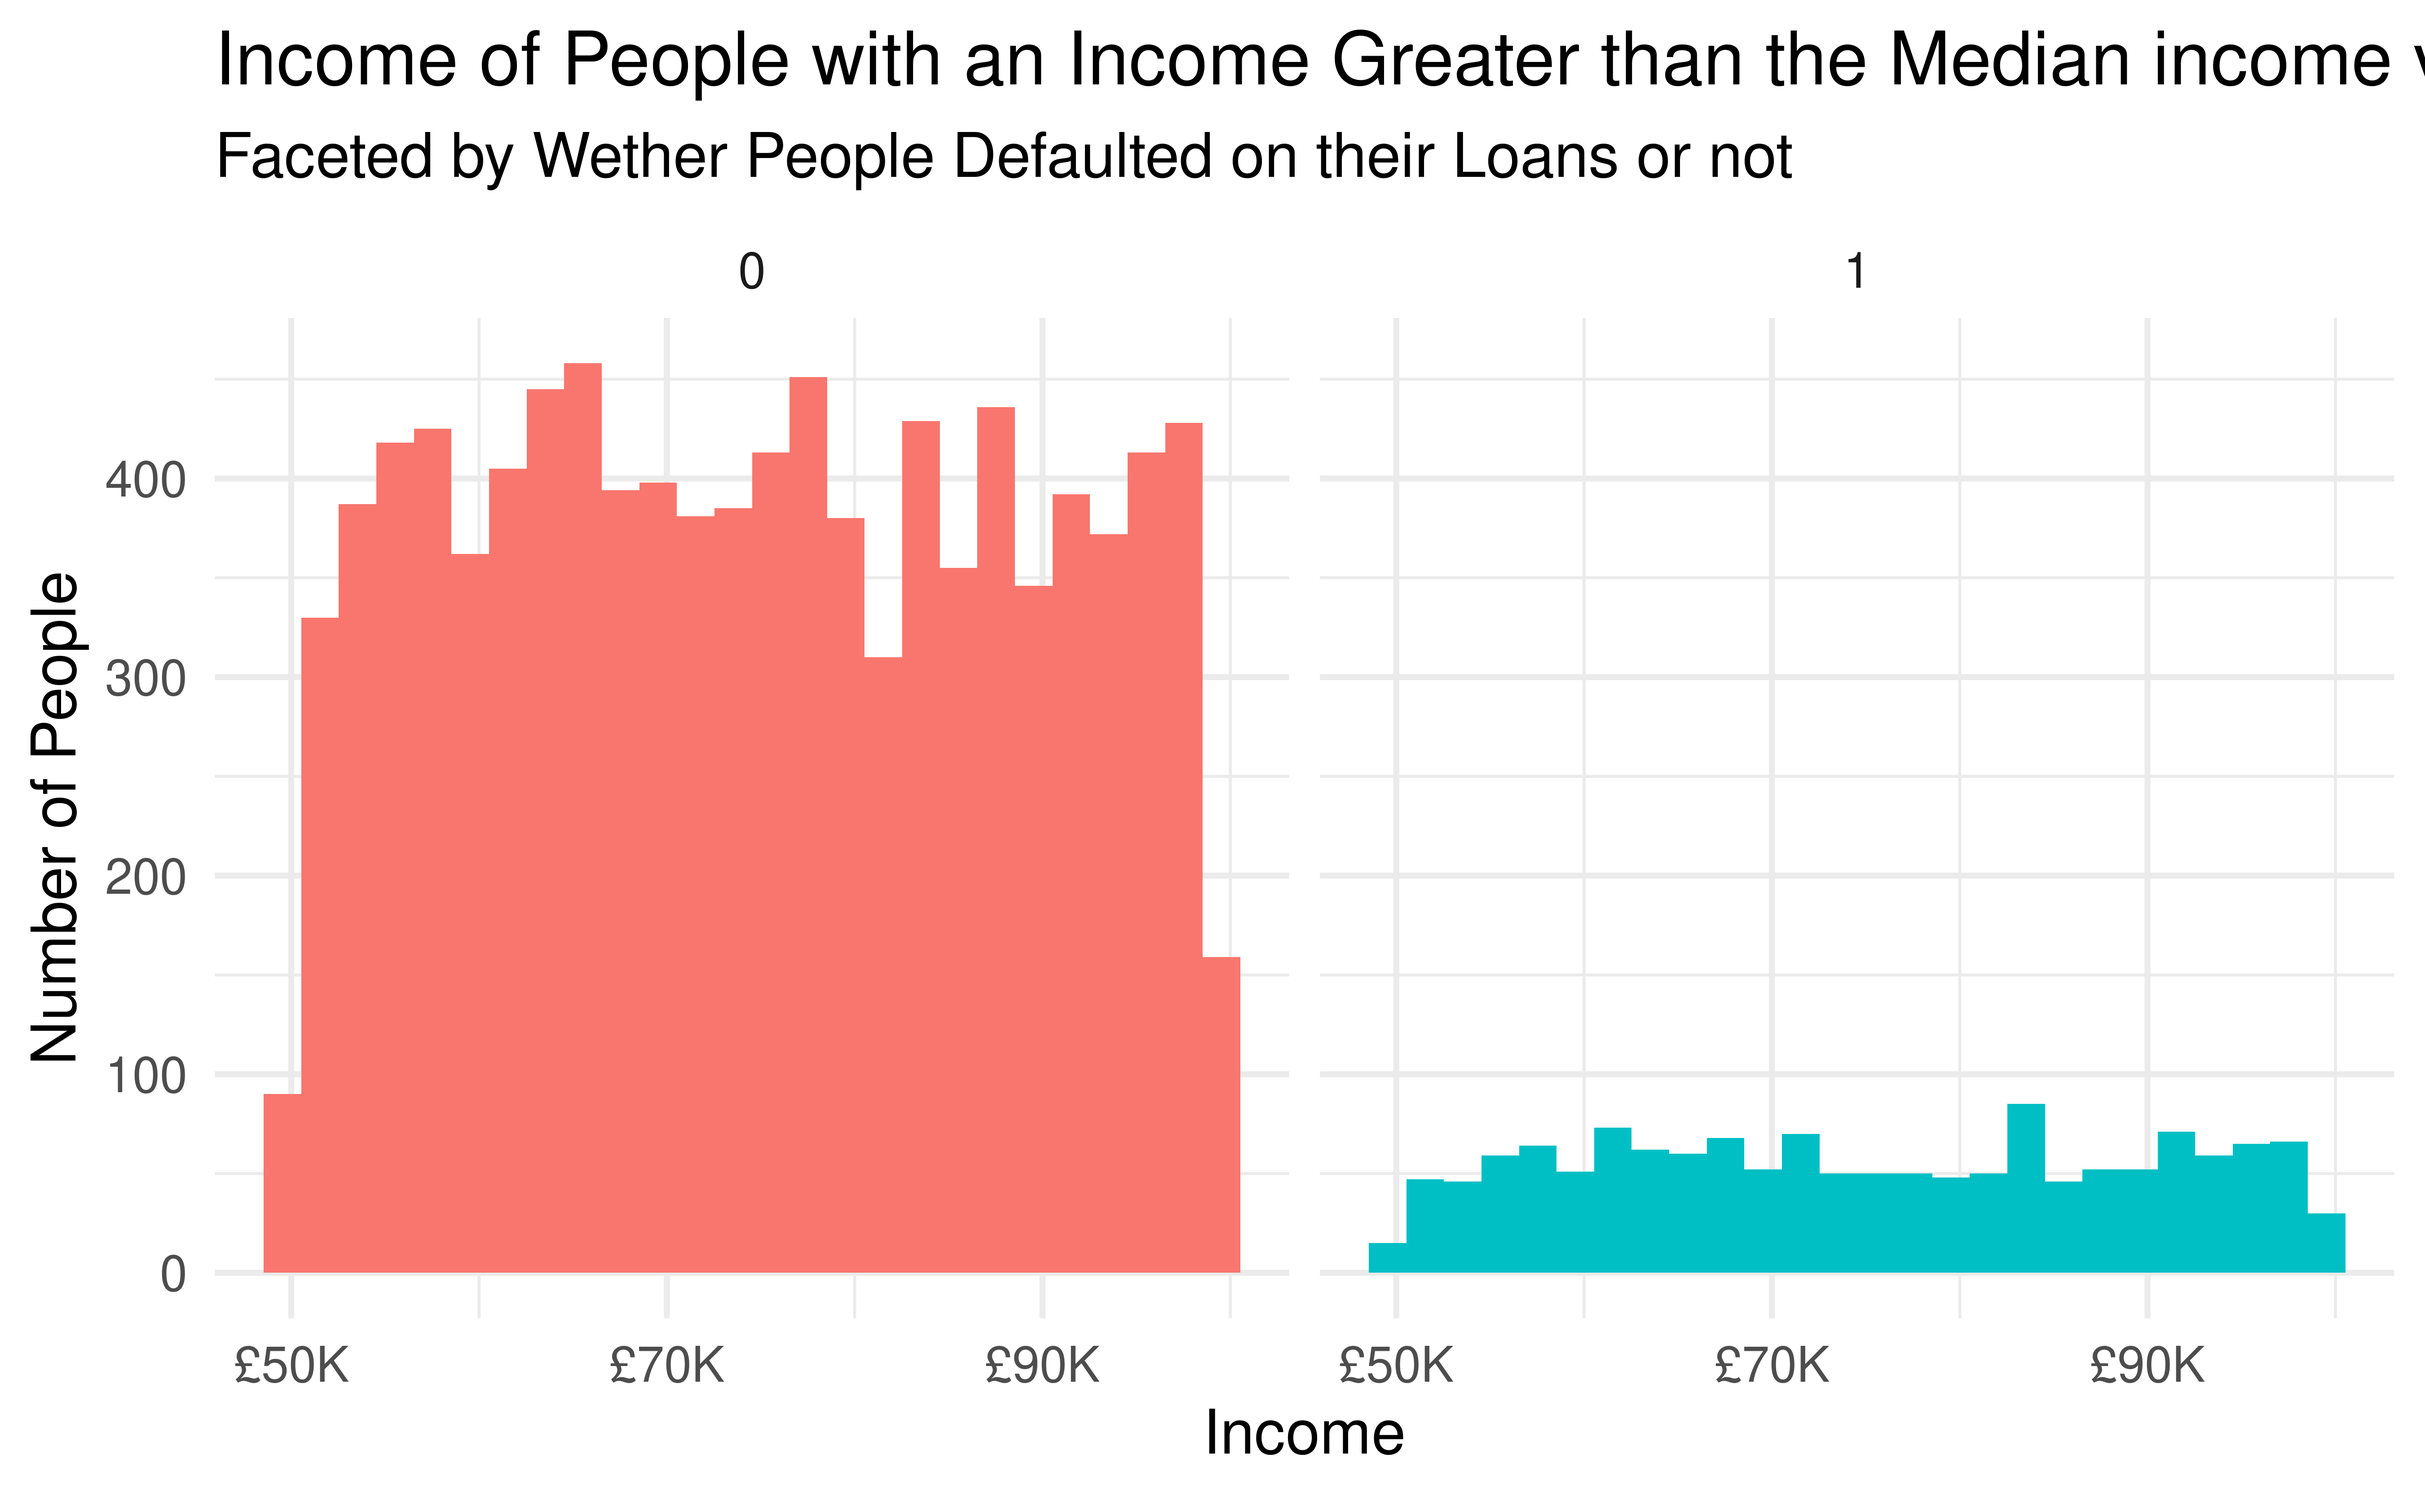
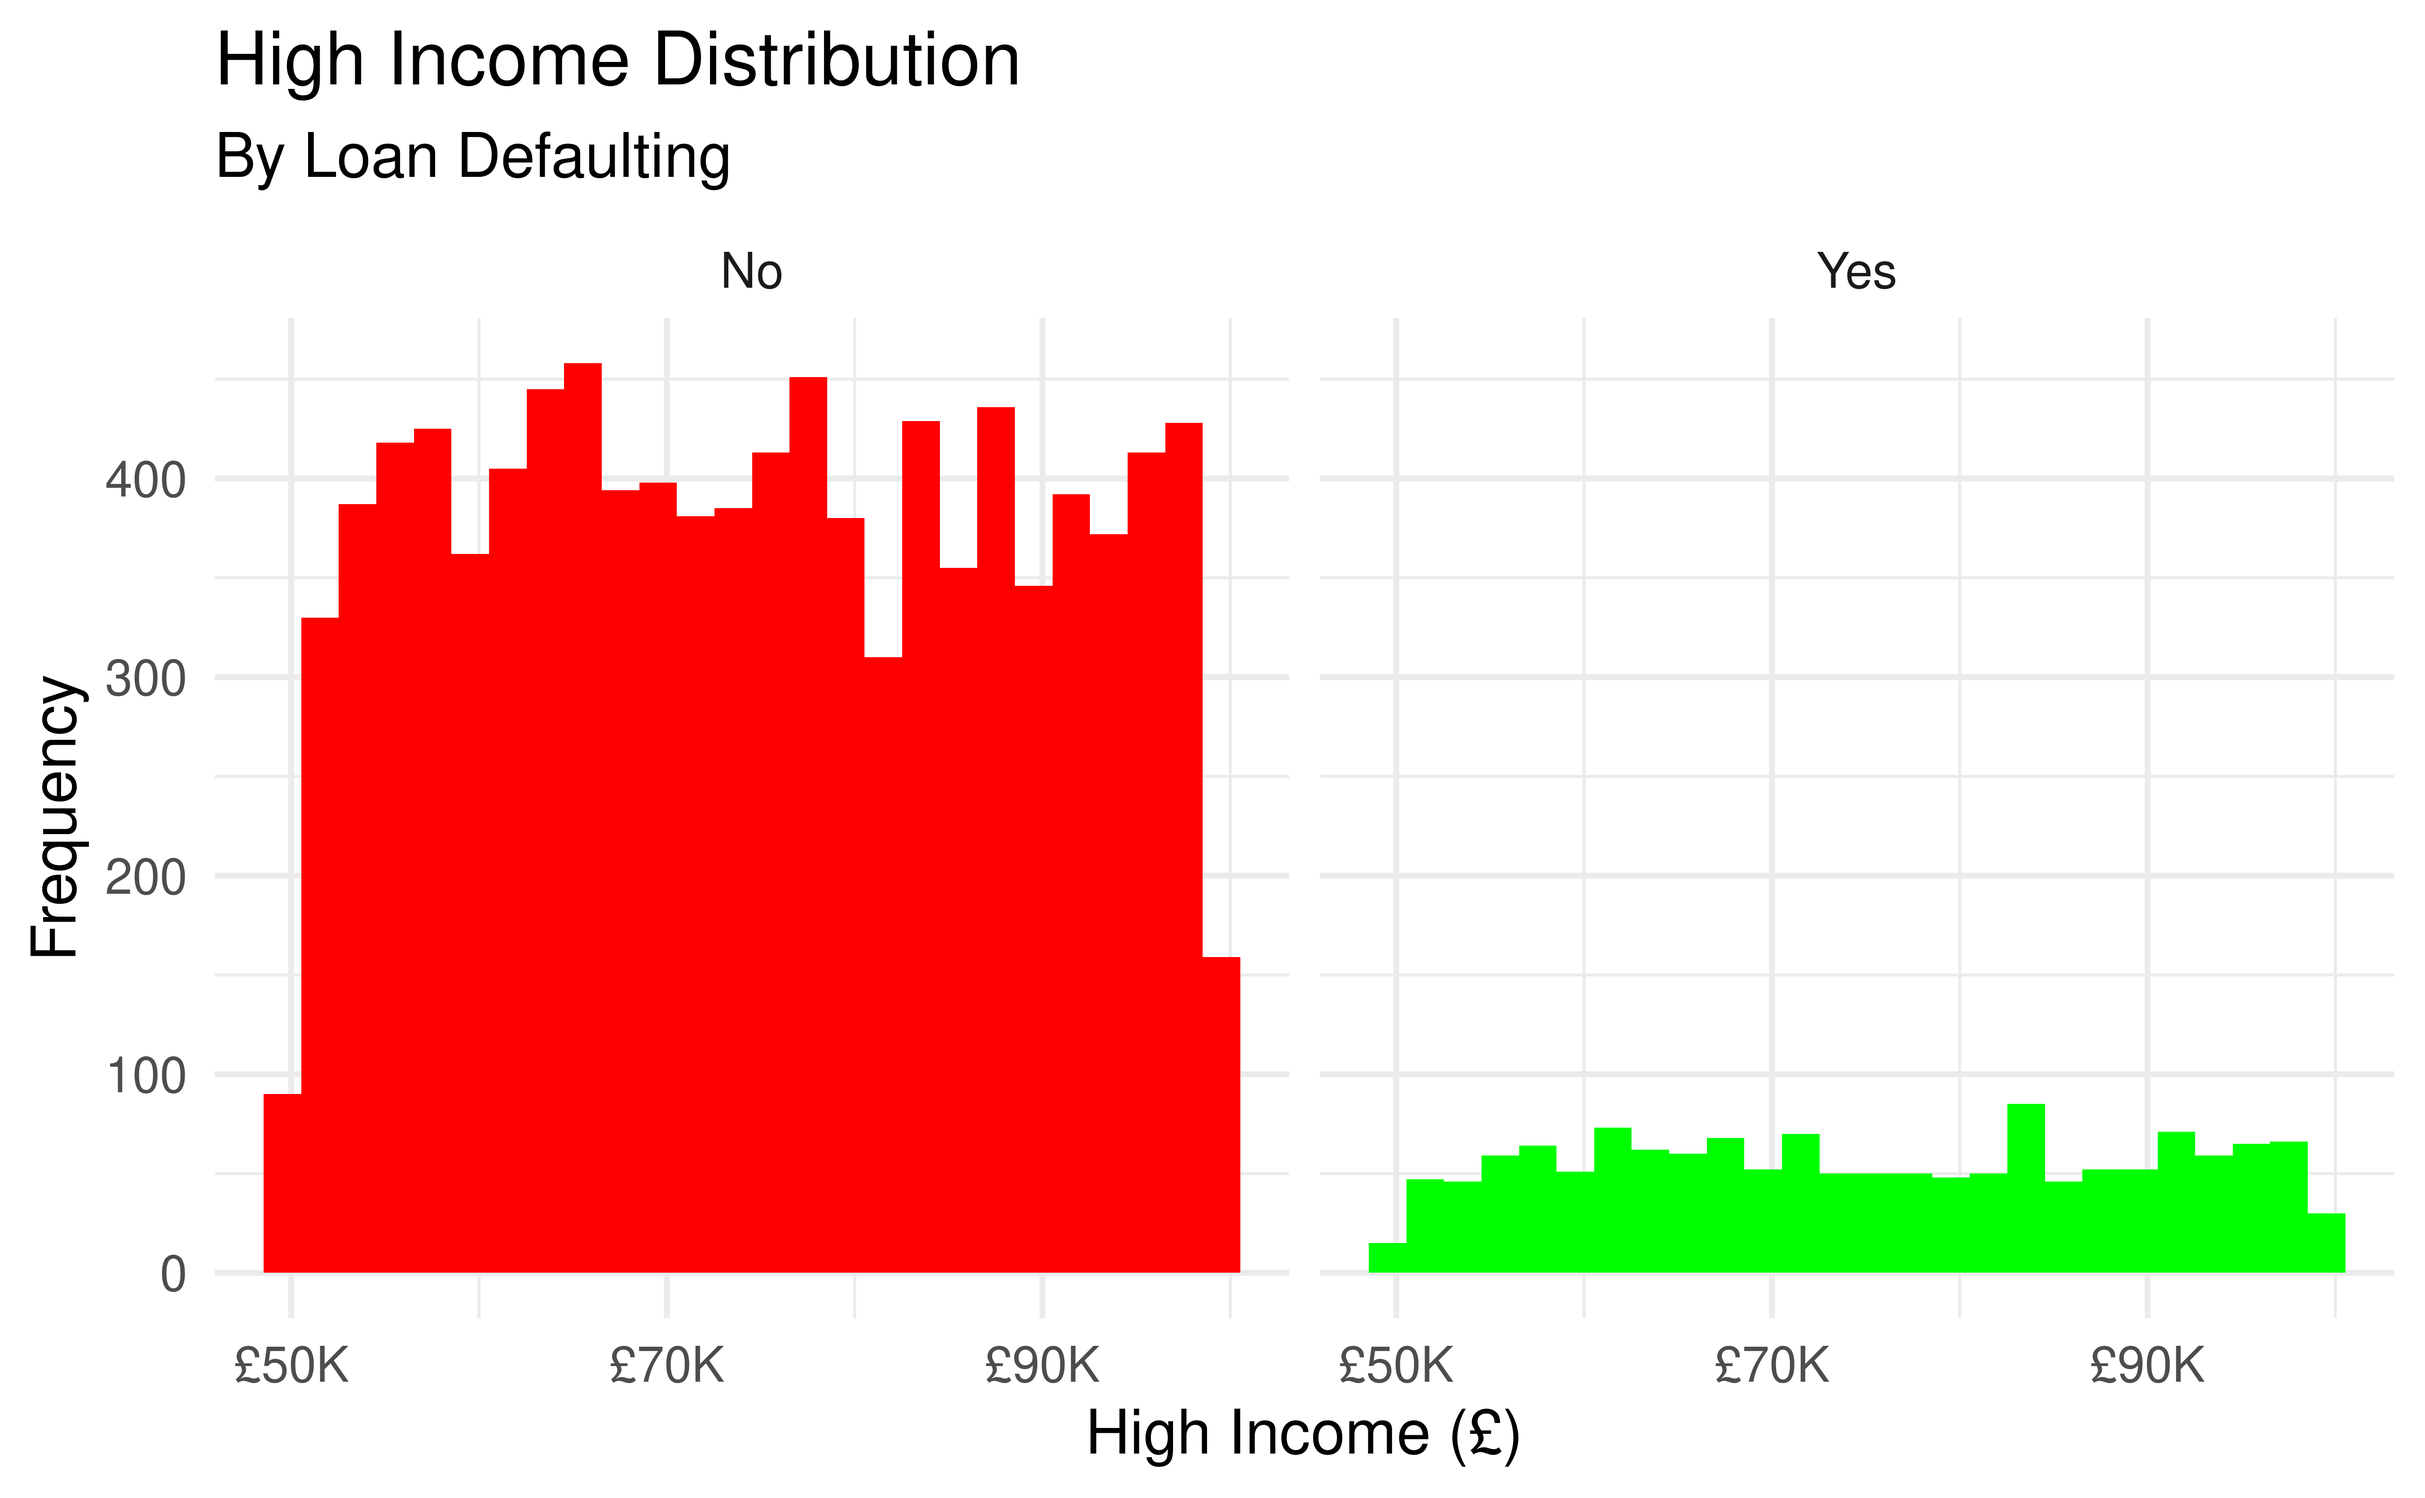
Graph Improvements

diff --git a/presentation/reveal.js_template/presentation.html b/presentation/reveal.js_template/presentation.html
@@ -184,7 +184,7 @@ Married.Single
 1
 </td>
 <td style="text-align:left;">
-0
+No
 </td>
 <td style="text-align:right;">
 7393090
@@ -204,7 +204,7 @@ single
 3
 </td>
 <td style="text-align:left;">
-1
+Yes
 </td>
 <td style="text-align:right;">
 8901342
@@ -224,7 +224,7 @@ single
 7
 </td>
 <td style="text-align:left;">
-0
+No
 </td>
 <td style="text-align:right;">
 5101498
@@ -244,7 +244,7 @@ married
 8
 </td>
 <td style="text-align:left;">
-0
+No
 </td>
 <td style="text-align:right;">
 6716946
@@ -264,7 +264,7 @@ single
 9
 </td>
 <td style="text-align:left;">
-0
+No
 </td>
 <td style="text-align:right;">
 8369802
@@ -284,7 +284,7 @@ single
 10
 </td>
 <td style="text-align:left;">
-1
+Yes
 </td>
 <td style="text-align:right;">
 9565457
@@ -310,8 +310,8 @@ single
 </section>
 <section class="slide level2">
 
-<p><em>Not Always</em></p>
-<p><font size="5" align="left"></p>
+<p><font size = "9"> Not Always </font></p>
+<p><font size = "5" align = "left"></p>
 <p>From the graph we can see that for married people income generally decreases with experience, whilst for single people it increases.</p>
 <p>Focusing on married people, we can see that income starts higher than for single people, as they have 2 salaries. There is a steep decrease which can be explained by the fact that possibly the woman stops working after the marriage, as is usually the trend in developing countries with less developed societies. Then, after 7 years of experience, the income starts to rise, due to the fact that the people have more experience, thus are more productive and are rewarded for this. However, after 12 years income starts decreasing again, likely because after a certain age people become fatigued of their job and their productivity decreases and some even retire (a number which increases as the years of experience increase), leading to the effect observed.</p>
 <p>For single people, the general trend for the first 15 years is for income to grow with experience. Although, after 15 years people grow bored of their jobs, meaning they become less productive or consider retiring, both results increasing as the years go by, thus a decrease in income is observed.</p>
@@ -332,18 +332,18 @@ single
 <h1><font size = '12'> How Accurate is the Model in Predicting future Loan Defaulting </font></h1>
 <p><em><font size = '6'> Based on High Income and Marital Status </font></em></p>
 <pre><code>## # A tibble: 2,801 × 5
-##    .pred_0 .pred_1 risk_flag  Income Married.Single
-##      &lt;dbl&gt;   &lt;dbl&gt; &lt;fct&gt;       &lt;int&gt; &lt;chr&gt;         
-##  1   0.865   0.135 0         9999180 single        
-##  2   0.865   0.135 1         9985581 single        
-##  3   0.865   0.135 0         9984878 single        
-##  4   0.865   0.135 0         9984878 single        
-##  5   0.865   0.135 0         9984878 single        
-##  6   0.865   0.135 0         9984878 single        
-##  7   0.865   0.135 0         9984878 single        
-##  8   0.865   0.135 0         9979065 single        
-##  9   0.865   0.135 0         9979065 single        
-## 10   0.865   0.135 0         9978110 single        
+##    .pred_No .pred_Yes risk_flag  Income Married.Single
+##       &lt;dbl&gt;     &lt;dbl&gt; &lt;fct&gt;       &lt;int&gt; &lt;chr&gt;         
+##  1    0.865     0.135 No        9999180 single        
+##  2    0.865     0.135 Yes       9985581 single        
+##  3    0.865     0.135 No        9984878 single        
+##  4    0.865     0.135 No        9984878 single        
+##  5    0.865     0.135 No        9984878 single        
+##  6    0.865     0.135 No        9984878 single        
+##  7    0.865     0.135 No        9984878 single        
+##  8    0.865     0.135 No        9979065 single        
+##  9    0.865     0.135 No        9979065 single        
+## 10    0.865     0.135 No        9978110 single        
 ## # … with 2,791 more rows</code></pre>
 </section>
 <section class="slide level2">
